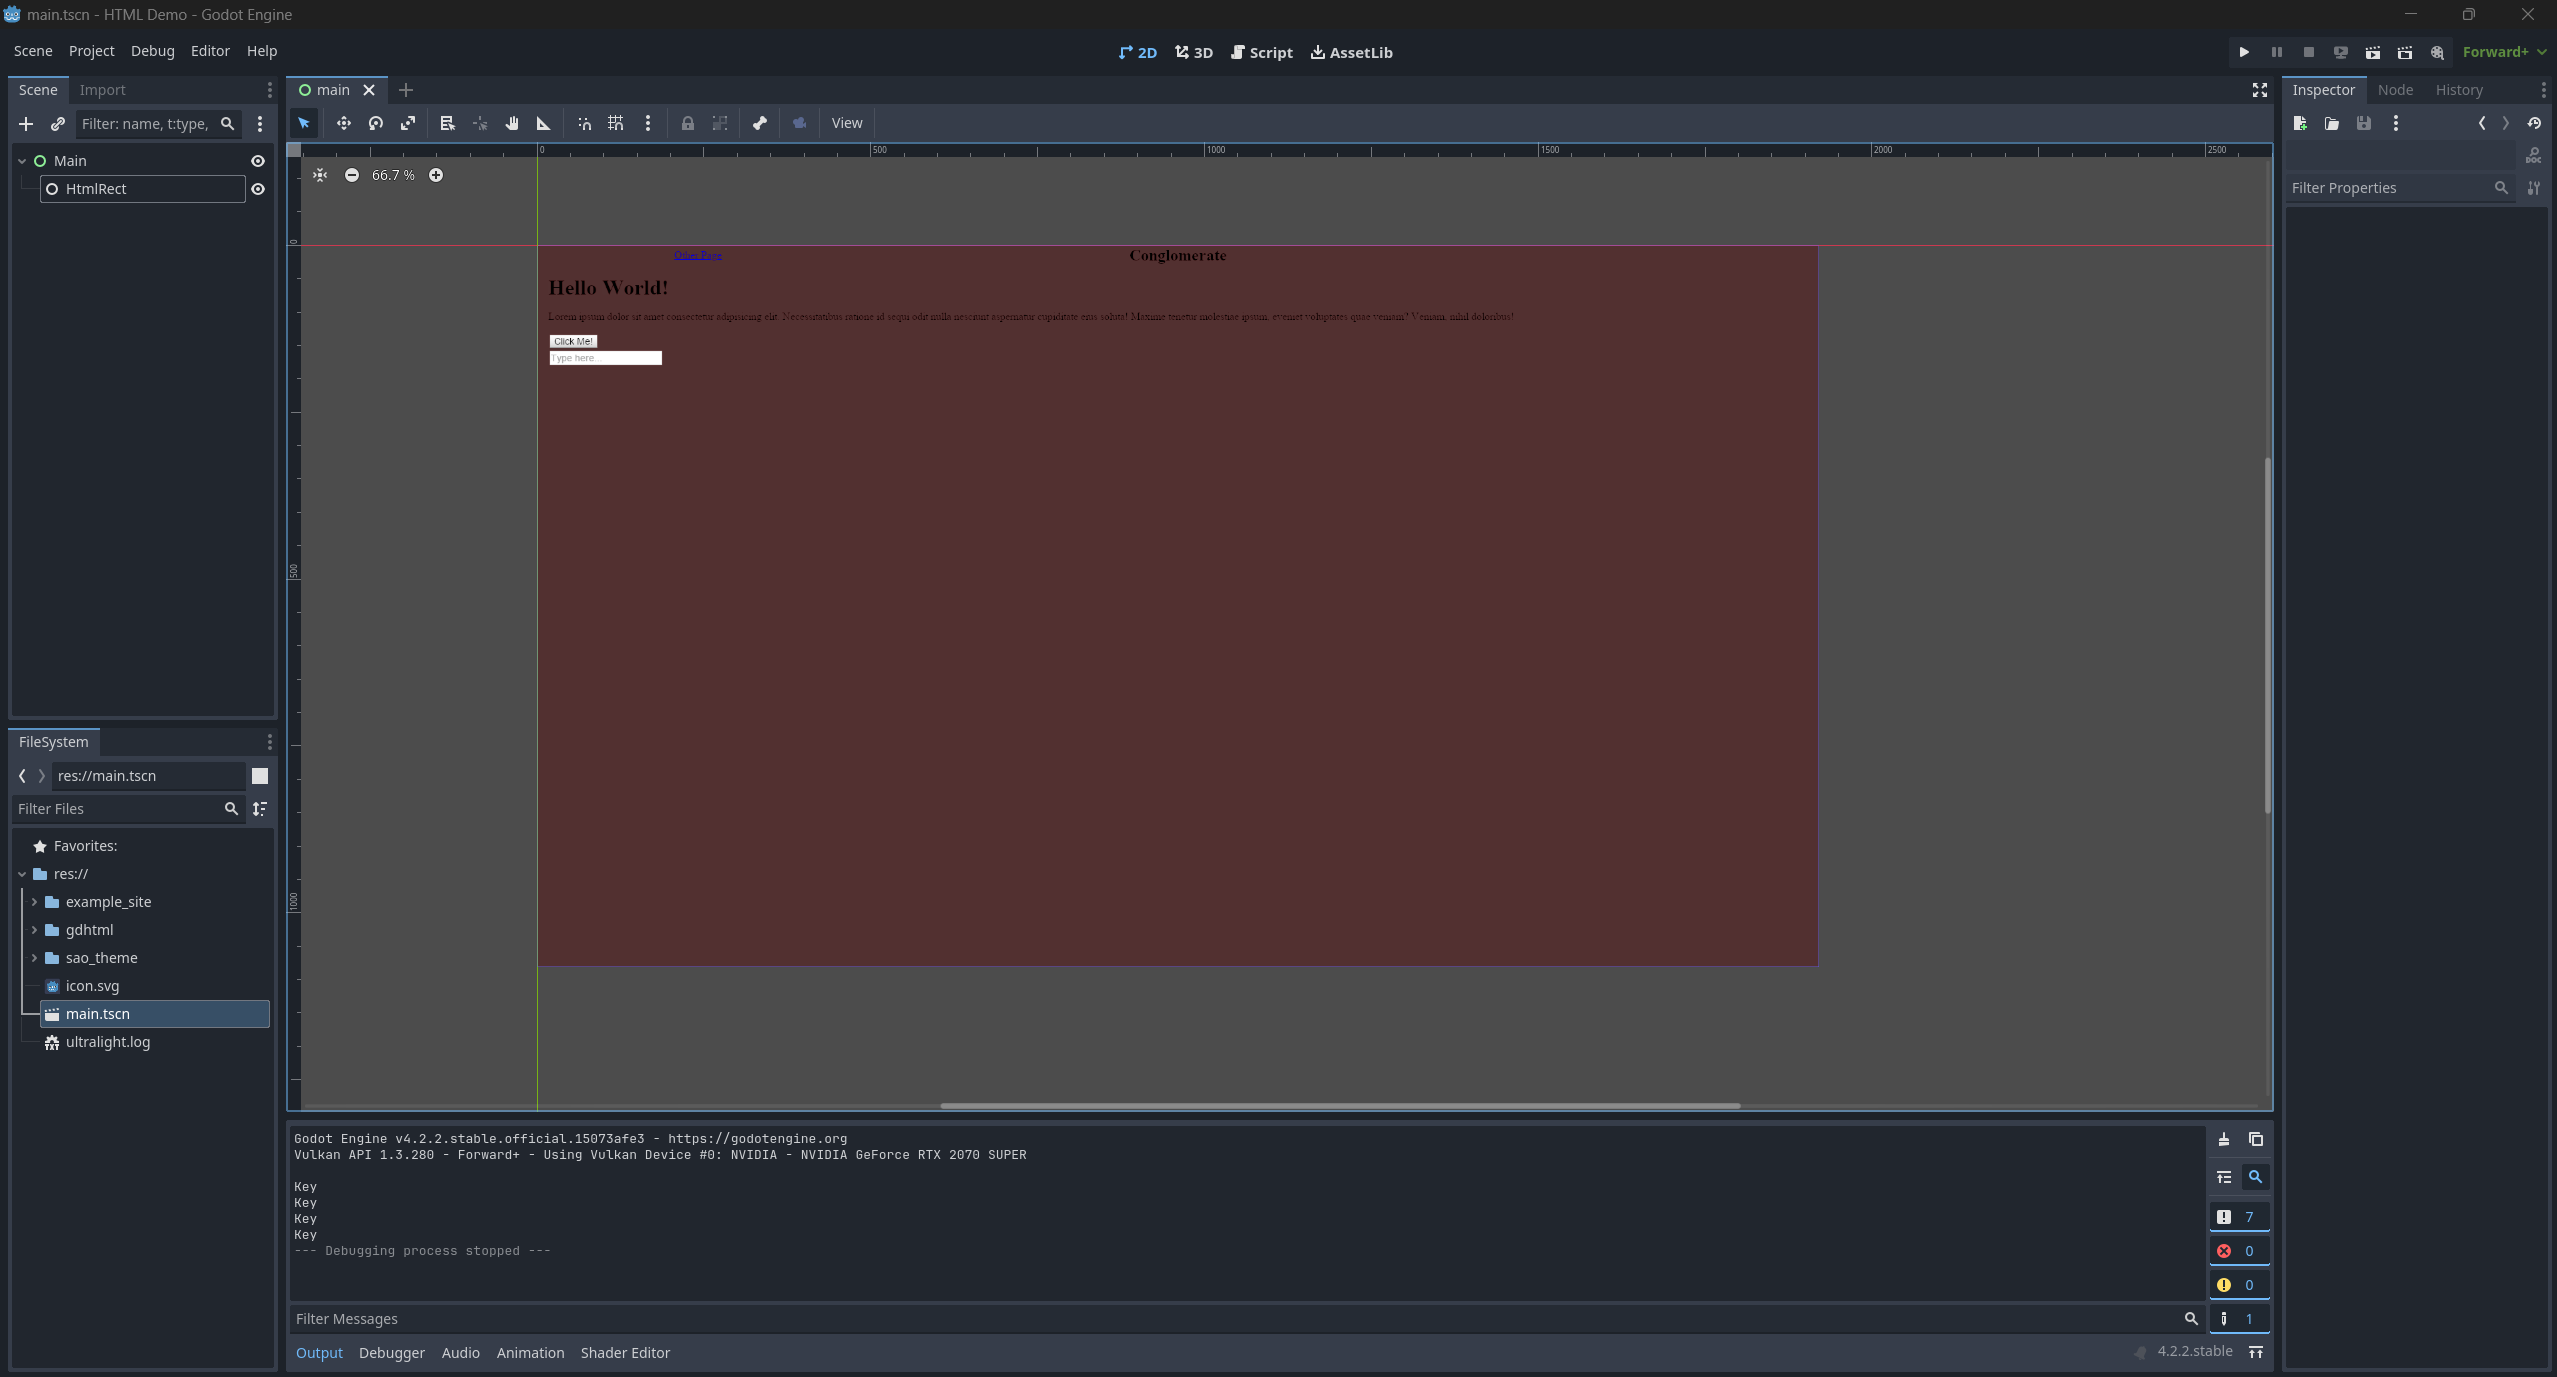
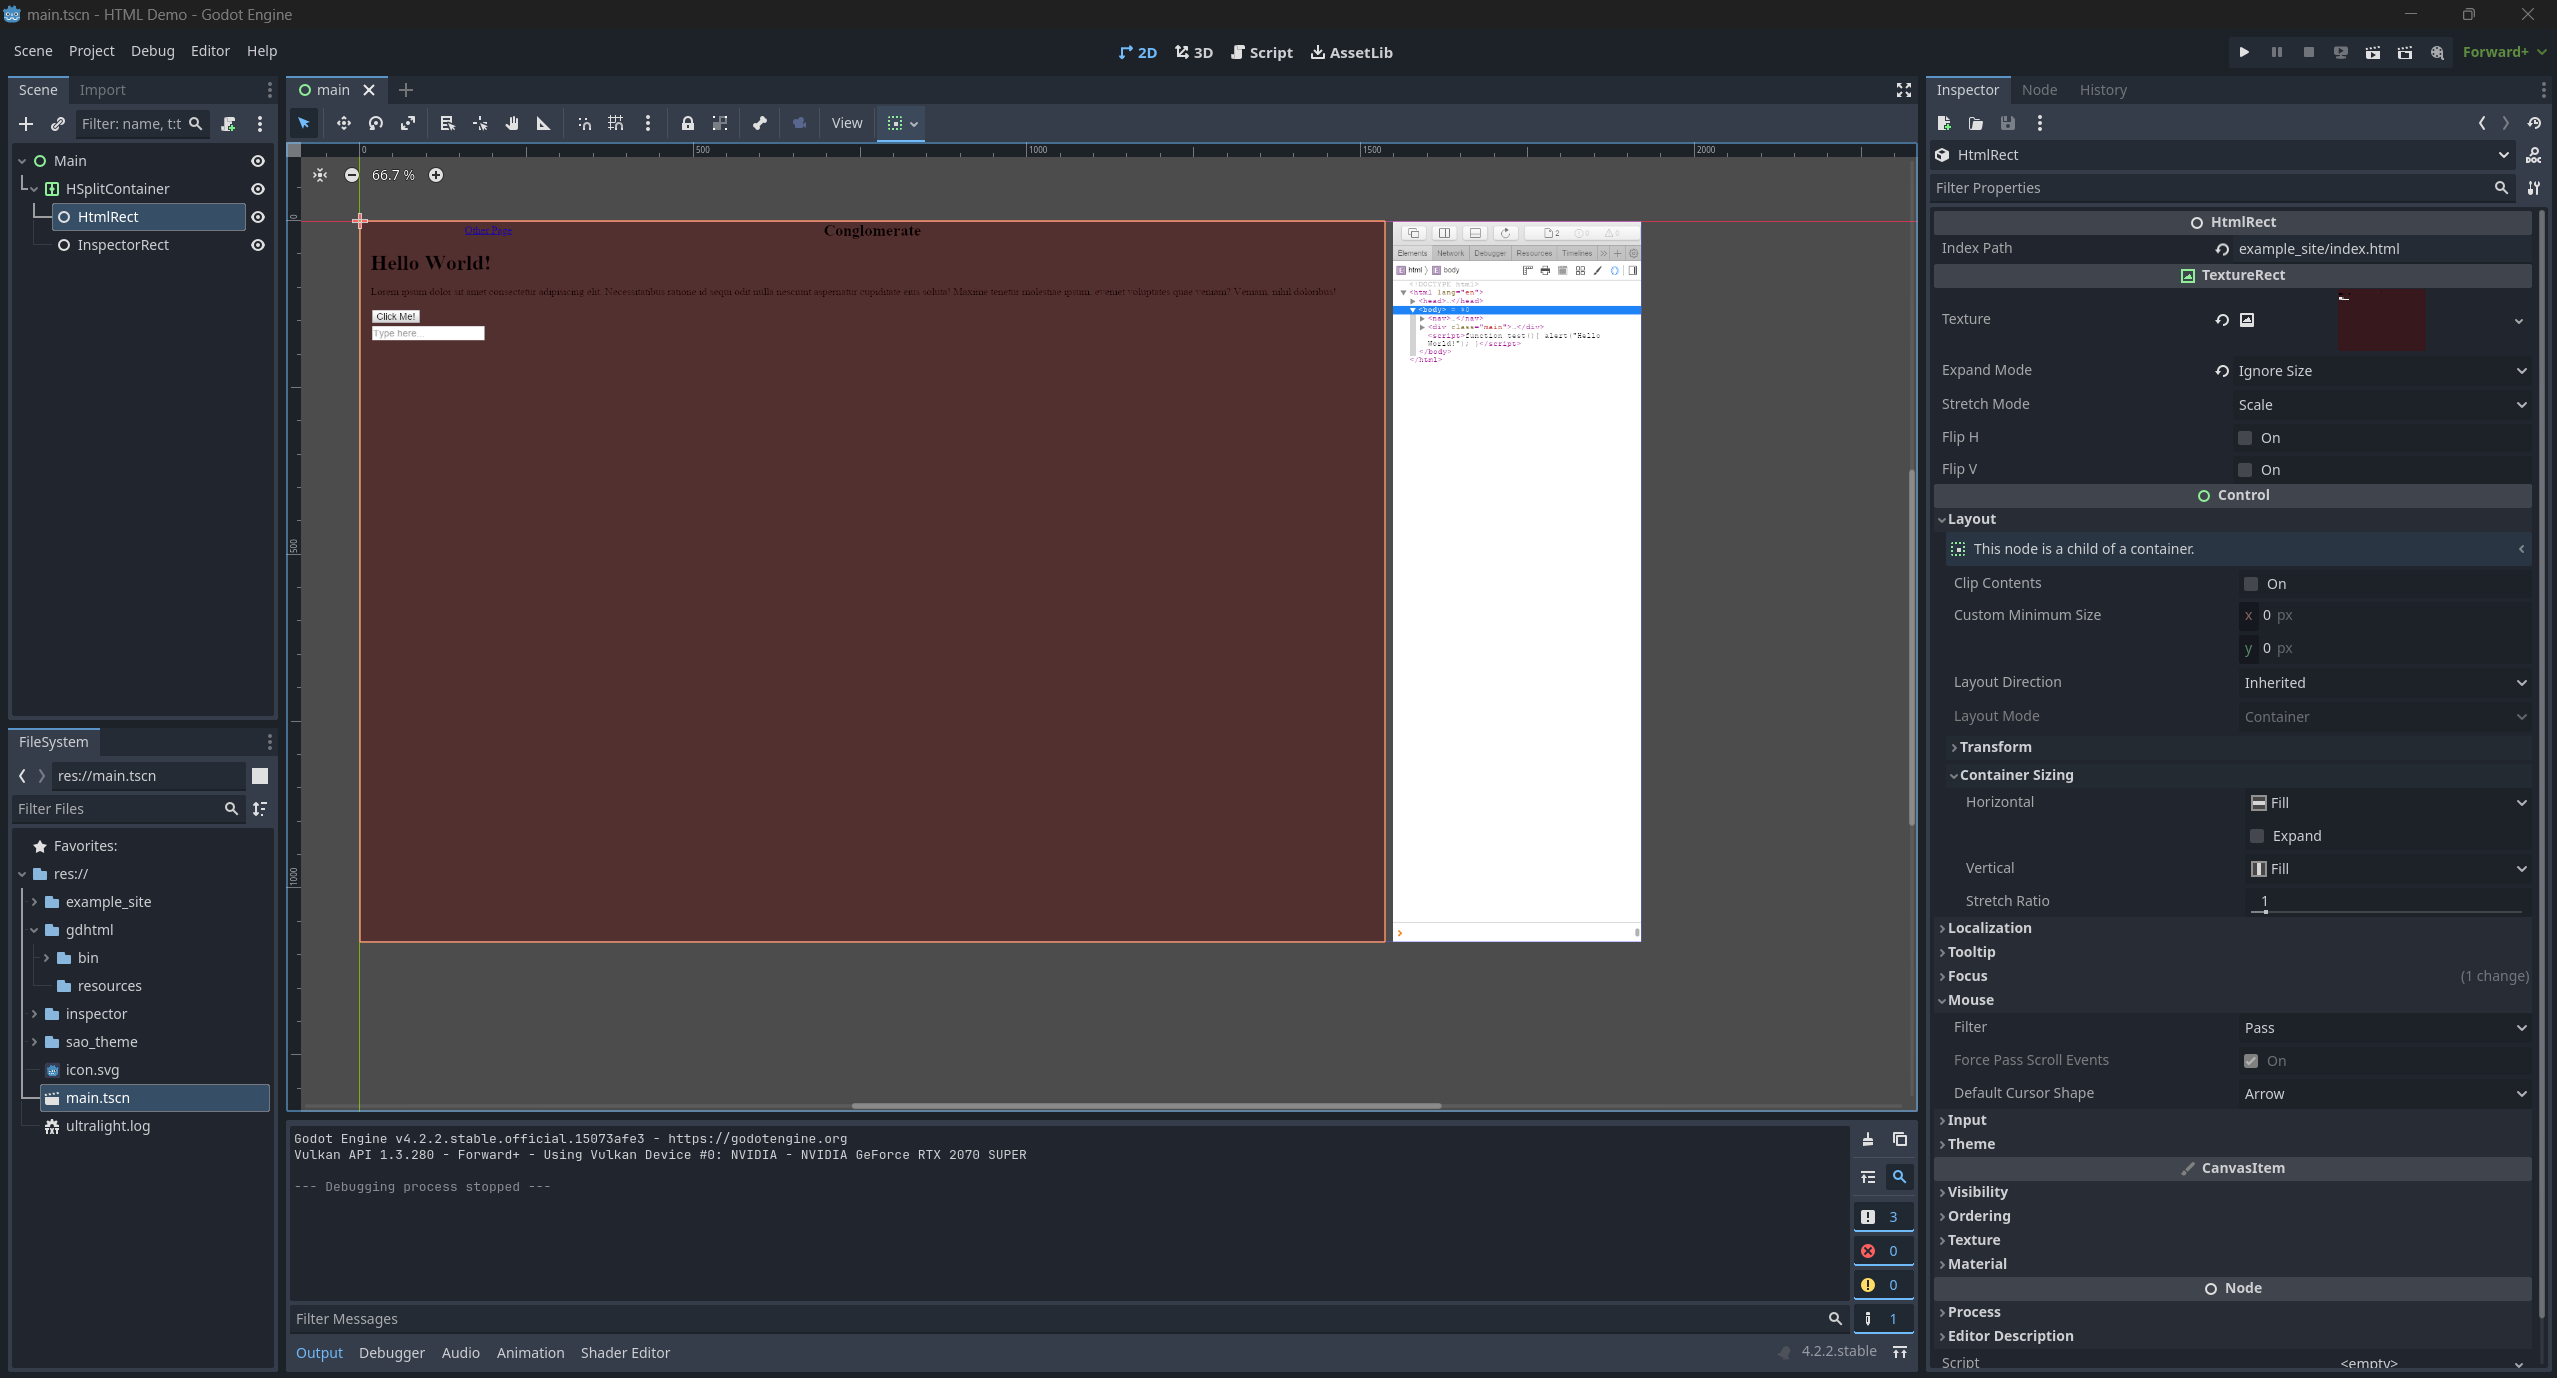
Update images to show inspector.

diff --git a/README.md b/README.md
@@ -8,7 +8,7 @@ This is very early stages. Feel free to contribute.
 A GDExtension, using Ultralight, to render HTML.
 
 <img src="docs/images/EditorView.png">
-<img src="docs/images/RunView.png">
+<img src="docs/images/InspectorView.png">
 
 ## Versions
 Godot v4.2<br>
